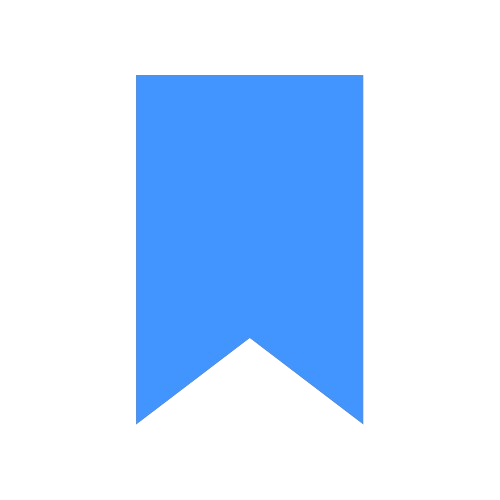
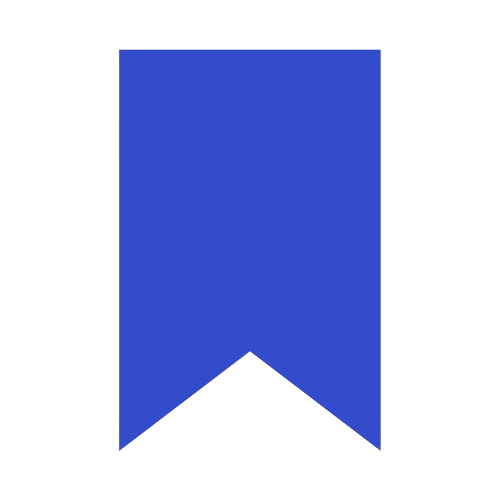
Correction de la couleur de l'image et des petits changements css

diff --git a/src/DetailsOptions.js b/src/DetailsOptions.js
@@ -8,8 +8,8 @@ function DetailsOptions({prices}) {
   return (<div className='details-container'>
     <div className='detail'>
       <div className='detail-title'>
-        <h3 style={{marginBottom:'20px'}}>STANDARD</h3>
-        <h3>{prices.standard} €</h3>
+        <h2 style={{marginBottom:'20px'}}>STANDARD</h2>
+        <h2>{prices.standard} €</h2>
       </div>
       <div className='details'>
         <div className='check'><img src={check}/><p>Accès aux jeux en version non personnalisés</p></div>
@@ -51,7 +51,7 @@ function DetailsOptions({prices}) {
     </div>
     <div className='detail'>
     <div className='detail-title'>
-        <h3 style={{marginBottom:'20px'}}>Sur Devis</h3>
+        <h2 style={{marginBottom:'20px'}}>Sur Devis</h2>
         <img src={entreprise} style={{width:'50px'}}/>
       </div>
       <div className='details'>

diff --git a/src/App.css b/src/App.css
@@ -78,7 +78,6 @@ p
   user-select: none;
   text-align: center;
   width: 85%;
-  margin: 20%;
   margin-bottom: 50px;
   border-bottom: 7px solid transparent;
   border-bottom-left-radius: 3px;
@@ -211,7 +210,7 @@ p{
 {
   position: absolute;
   right: 10px;
-  top: 0;
-  transform: translateY(-50%);
+  top: 0px;
+  transform: translateY(-30%);
   width: 50px;
 }
